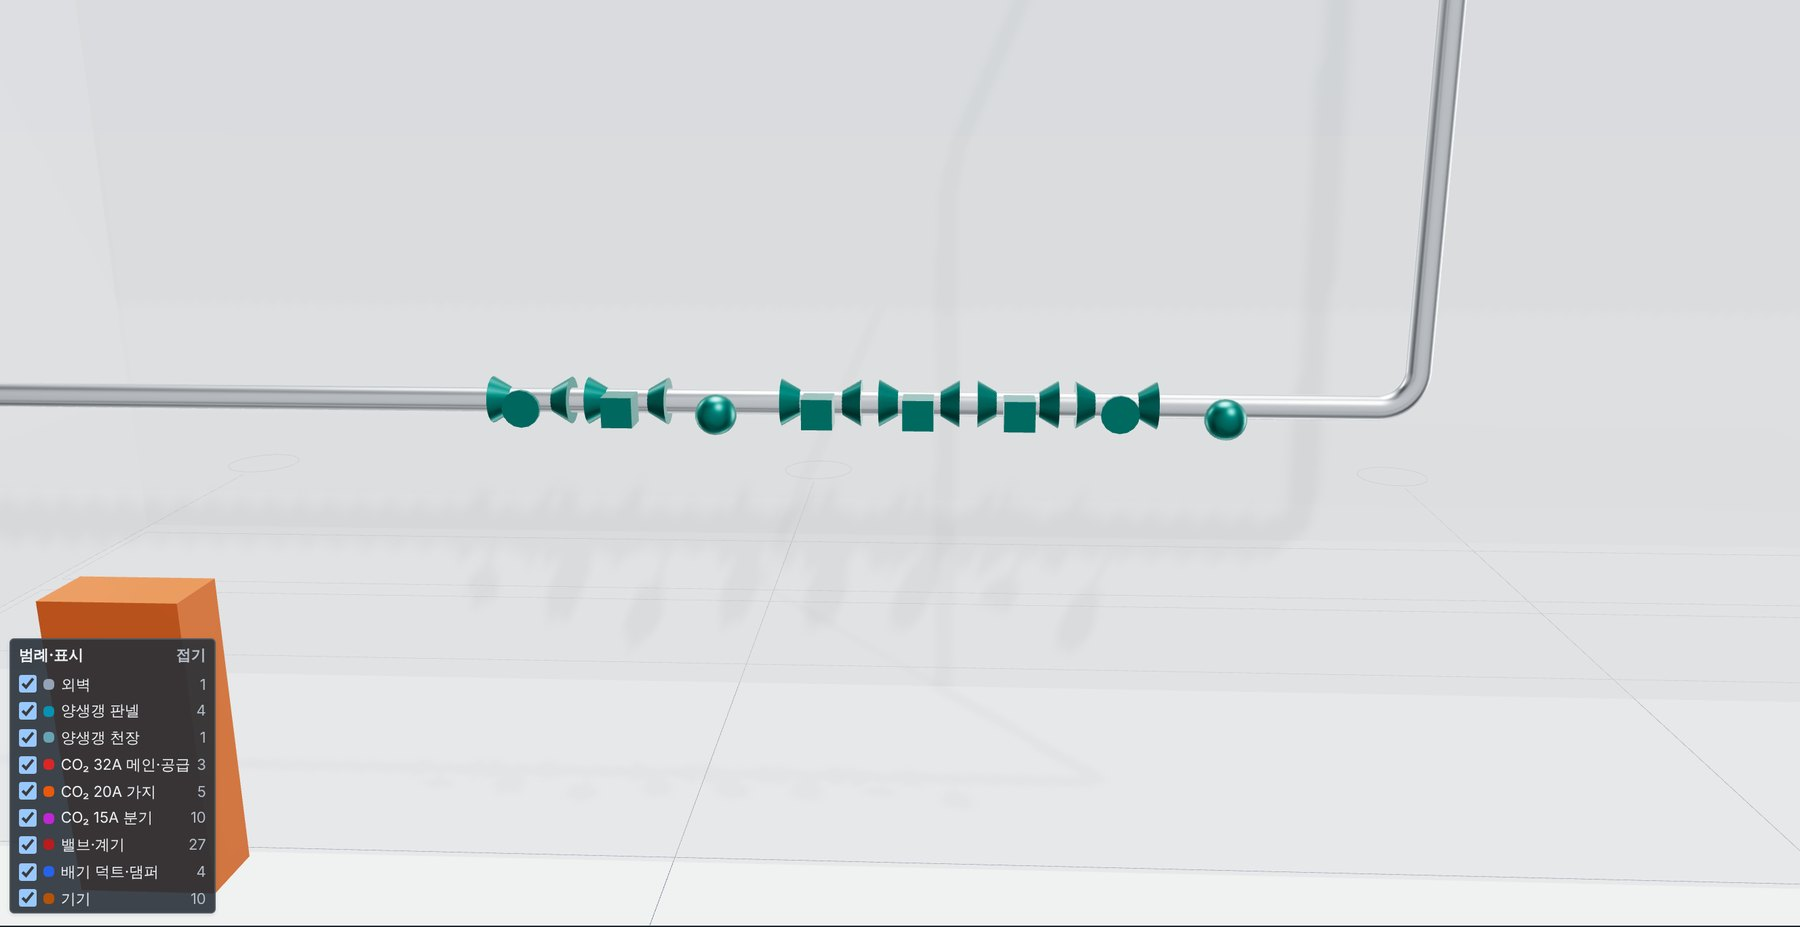
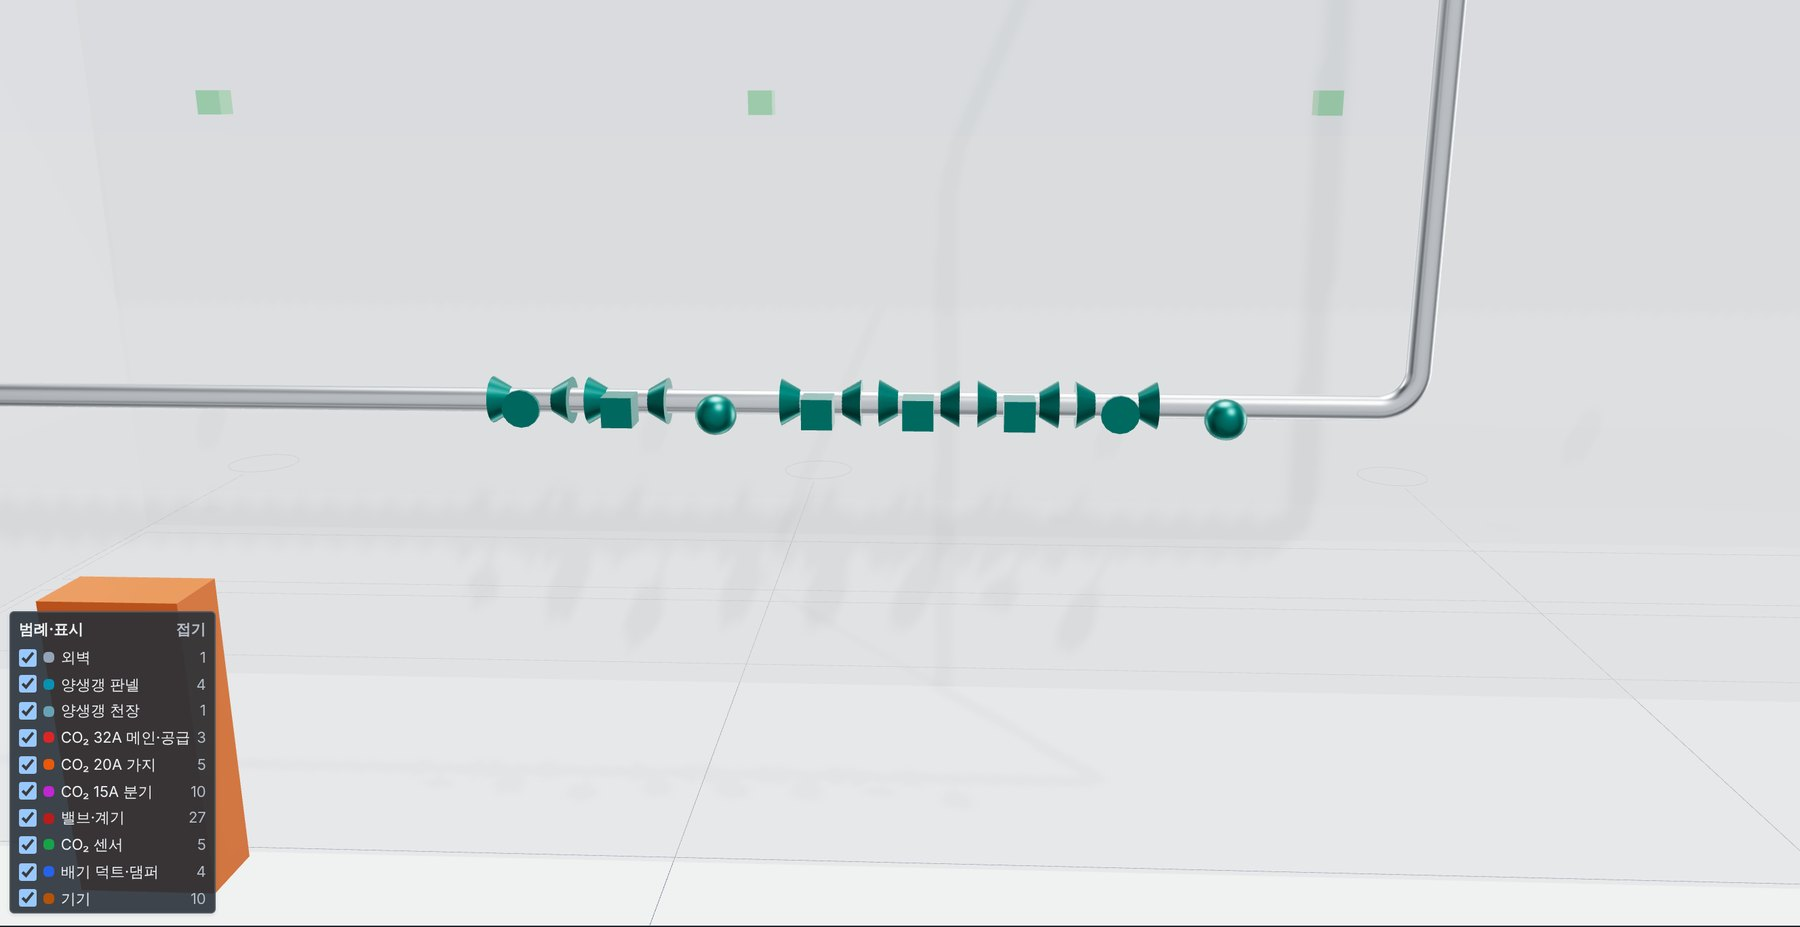
데코페이브 3판 도면 그림·3D 화면에 CO₂ 센서 5개 넣음
Claude-Session: https://claude.ai/code/session_01MdRgMhkkCG9jx7tPyuMZFB

diff --git a/public/client-assets/decopave/3d.html b/public/client-assets/decopave/3d.html
@@ -52,12 +52,13 @@ button:focus-visible{outline:2px solid #2c5ce6;outline-offset:2px}
         <span><i style="background:#ea580c"></i>구간 가지관</span>
         <span><i style="background:#c026d3"></i>토출 분기관</span>
         <span><i style="background:#0f766e"></i>밸브·계기</span>
+        <span><i style="background:#16a34a"></i>CO₂ 센서 5개</span>
         <span><i style="background:#2563eb"></i>퍼지 배기 덕트</span>
         <span><i style="background:#b45309"></i>제어반·기기</span>
         <span><i style="background:#67a3b5"></i>양생갱 (별도 공사)</span>
         <span><i style="background:#c4ccd4"></i>외벽</span>
       </div>
-      <p class="note">배관은 보기 쉽게 실제보다 굵게 그림. CO₂ 저장탱크·기화기는 가스 공급사 범위이며 위치와 크기는 가정임. 배관 루트는 착수 전 실측으로 확정함.</p>
+      <p class="note">배관은 보기 쉽게 실제보다 굵게 그림. CO₂ 센서는 구간마다 중간 높이에 1개씩 5개이며 위치는 실측 때 확정함. CO₂ 저장탱크·기화기는 가스 공급사 범위이며 위치와 크기는 가정임. 배관 루트는 착수 전 실측으로 확정함.</p>
     </div>
   </section>
   <div class="hint" id="hint">끌어서 돌리기 · 휠로 확대 · 오른쪽 버튼(두 손가락)으로 이동</div>
@@ -67,6 +68,7 @@ button:focus-visible{outline:2px solid #2c5ce6;outline-offset:2px}
       <button data-v="valve">밸브 계통</button>
       <button data-v="roof">지붕 위 메인</button>
       <button data-v="zone">구간 분기</button>
+      <button data-v="sensor">CO₂ 센서</button>
       <button data-v="purge">퍼지 배기</button>
       <button data-v="top">위에서</button>
     </div>
@@ -81,7 +83,7 @@ button:focus-visible{outline:2px solid #2c5ce6;outline-offset:2px}
 <script>
 (function(){
 'use strict';
-var D={"pipes":[{"s":"32A","p":[[-10.35,3.0,0.6],[10.9,3.0,0.6],[10.9,9.46,0.6],[10.9,9.46,-4.435]]},{"s":"32A","p":[[2.342,9.46,-4.435],[7.026,9.46,-4.435],[10.9,9.46,-4.435],[11.71,9.46,-4.435],[16.394,9.46,-4.435],[21.078,9.46,-4.435]]},{"s":"20A","p":[[2.342,9.46,-4.435],[2.342,9.16,-4.435]]},{"s":"15A","p":[[2.342,9.16,-4.435],[2.342,9.16,-3.835],[2.342,8.76,-3.835]]},{"s":"15A","p":[[2.342,9.16,-4.435],[2.342,9.16,-5.035],[2.342,8.76,-5.035]]},{"s":"20A","p":[[7.026,9.46,-4.435],[7.026,9.16,-4.435]]},{"s":"15A","p":[[7.026,9.16,-4.435],[7.026,9.16,-3.835],[7.026,8.76,-3.835]]},{"s":"15A","p":[[7.026,9.16,-4.435],[7.026,9.16,-5.035],[7.026,8.76,-5.035]]},{"s":"20A","p":[[11.71,9.46,-4.435],[11.71,9.16,-4.435]]},{"s":"15A","p":[[11.71,9.16,-4.435],[11.71,9.16,-3.835],[11.71,8.76,-3.835]]},{"s":"15A","p":[[11.71,9.16,-4.435],[11.71,9.16,-5.035],[11.71,8.76,-5.035]]},{"s":"20A","p":[[16.394,9.46,-4.435],[16.394,9.16,-4.435]]},{"s":"15A","p":[[16.394,9.16,-4.435],[16.394,9.16,-3.835],[16.394,8.76,-3.835]]},{"s":"15A","p":[[16.394,9.16,-4.435],[16.394,9.16,-5.035],[16.394,8.76,-5.035]]},{"s":"20A","p":[[21.078,9.46,-4.435],[21.078,9.16,-4.435]]},{"s":"15A","p":[[21.078,9.16,-4.435],[21.078,9.16,-3.835],[21.078,8.76,-3.835]]},{"s":"15A","p":[[21.078,9.16,-4.435],[21.078,9.16,-5.035],[21.078,8.76,-5.035]]}],"fits":[{"k":"ball-valve","p":[6.399,3.0,0.6],"t":"BV-01 수동 차단밸브"},{"k":"solenoid","p":[7.899,3.0,0.6],"t":"MV-01 메인 차단 전자밸브"},{"k":"유량계","p":[8.4,3.0,0.6],"t":"FT-01 유량계"},{"k":"regulator","p":[6.9,3.0,0.6],"t":"PRV-01 정압기"},{"k":"safety-valve","p":[8.901,3.0,0.6],"t":"SV-01 안전밸브"},{"k":"gauge","p":[7.401,3.0,0.6],"t":"PG-01·PT-01 압력계"},{"k":"ball-valve","p":[9.399,3.0,0.6],"t":"BV-02 차단밸브"},{"k":"union","p":[2.342,9.37,-4.435],"t":""},{"k":"solenoid","p":[2.342,9.27,-4.435],"t":"SOV-1 구간 전자밸브"},{"k":"nozzle","p":[2.342,8.76,-3.835],"t":""},{"k":"nozzle","p":[2.342,8.76,-5.035],"t":""},{"k":"union","p":[7.026,9.37,-4.435],"t":""},{"k":"solenoid","p":[7.026,9.27,-4.435],"t":"SOV-2 구간 전자밸브"},{"k":"nozzle","p":[7.026,8.76,-3.835],"t":""},{"k":"nozzle","p":[7.026,8.76,-5.035],"t":""},{"k":"union","p":[11.71,9.37,-4.435],"t":""},{"k":"solenoid","p":[11.71,9.27,-4.435],"t":"SOV-3 구간 전자밸브"},{"k":"nozzle","p":[11.71,8.76,-3.835],"t":""},{"k":"nozzle","p":[11.71,8.76,-5.035],"t":""},{"k":"union","p":[16.394,9.37,-4.435],"t":""},{"k":"solenoid","p":[16.394,9.27,-4.435],"t":"SOV-4 구간 전자밸브"},{"k":"nozzle","p":[16.394,8.76,-3.835],"t":""},{"k":"nozzle","p":[16.394,8.76,-5.035],"t":""},{"k":"union","p":[21.078,9.37,-4.435],"t":""},{"k":"solenoid","p":[21.078,9.27,-4.435],"t":"SOV-5 구간 전자밸브"},{"k":"nozzle","p":[21.078,8.76,-3.835],"t":""},{"k":"nozzle","p":[21.078,8.76,-5.035],"t":""},{"k":"gauge","p":[9.9,3.0,0.6],"t":"PG-02 압력계"}],"boxes":[{"tag":"","layer":"ROOF","min":[-0.1,8.86,-6.335],"max":[23.52,8.96,-2.535]},{"tag":"CP-01 제어반","layer":"EQUIP","min":[3.9,0.0,-0.1],"max":[4.7,1.8,0.3]},{"tag":"MD-02 배기 댐퍼 Ø350 (밀폐형 전동)","layer":"DUCT","min":[22.575,0.175,-2.2],"max":[23.025,0.625,-1.9]},{"tag":"EF-01 인라인 배기팬 Ø350 · 2,500㎥/h","layer":"DUCT","min":[22.525,1.5,-1.575],"max":[23.075,2.2,-1.025]},{"tag":"배기 후드 (방충망·빗물막이)","layer":"DUCT","min":[22.55,6.7,0.45],"max":[23.05,7.2,0.9]},{"tag":"기화기·감압 (공급사)","layer":"EQUIP","min":[-11.15,0.0,0.15],"max":[-10.35,3.2,0.65]}],"rounds":[{"layer":"DUCT","id":"m99","r":0.175,"p":[[22.8,0.4,-2.585],[22.8,0.4,-1.3],[22.8,7.0,-1.3],[22.8,7.0,0.45]]},{"layer":"EQUIP","id":"tk1","r":1.1,"p":[[-12.6,0.6,1.7],[-12.6,4.6,1.7]]},{"layer":"EQUIP","id":"tk2","r":0.75,"p":[[-12.6,4.6,1.7],[-12.6,4.9,1.7]]},{"layer":"EQUIP","id":"tk3","r":0.75,"p":[[-12.6,0.3,1.7],[-12.6,0.6,1.7]]},{"layer":"EQUIP","id":"tk4","r":0.075,"p":[[-13.3,0.0,2.4],[-13.3,0.9,2.4]]},{"layer":"EQUIP","id":"tk5","r":0.075,"p":[[-11.9,0.0,2.4],[-11.9,0.9,2.4]]},{"layer":"EQUIP","id":"tk6","r":0.075,"p":[[-13.3,0.0,1.0],[-13.3,0.9,1.0]]},{"layer":"EQUIP","id":"tk7","r":0.075,"p":[[-11.9,0.0,1.0],[-11.9,0.9,1.0]]},{"layer":"EQUIP","id":"tk10","r":0.03,"p":[[-12.6,0.9,1.7],[-12.6,0.9,0.4],[-11.15,0.9,0.4]]}],"walls":[{"k":"out","a":[-11.8,0.0,0.0],"b":[26.4,0.0,0.0],"h":10.5},{"k":"ch","a":[-0.05,0.0,-2.585],"b":[23.47,0.0,-2.585],"h":8.86},{"k":"ch","a":[23.47,0.0,-2.585],"b":[23.47,0.0,-6.285],"h":8.86},{"k":"ch","a":[23.47,0.0,-6.285],"b":[-0.05,0.0,-6.285],"h":8.86},{"k":"ch","a":[-0.05,0.0,-6.285],"b":[-0.05,0.0,-2.585],"h":8.86}],"racks":[[0.094,-4.29,23.321,-2.89],[0.094,-5.98,23.321,-4.58]]};
+var D={"pipes":[{"s":"32A","p":[[-10.35,3.0,0.6],[10.9,3.0,0.6],[10.9,9.46,0.6],[10.9,9.46,-4.435]]},{"s":"32A","p":[[2.342,9.46,-4.435],[7.026,9.46,-4.435],[10.9,9.46,-4.435],[11.71,9.46,-4.435],[16.394,9.46,-4.435],[21.078,9.46,-4.435]]},{"s":"20A","p":[[2.342,9.46,-4.435],[2.342,9.16,-4.435]]},{"s":"15A","p":[[2.342,9.16,-4.435],[2.342,9.16,-3.835],[2.342,8.76,-3.835]]},{"s":"15A","p":[[2.342,9.16,-4.435],[2.342,9.16,-5.035],[2.342,8.76,-5.035]]},{"s":"20A","p":[[7.026,9.46,-4.435],[7.026,9.16,-4.435]]},{"s":"15A","p":[[7.026,9.16,-4.435],[7.026,9.16,-3.835],[7.026,8.76,-3.835]]},{"s":"15A","p":[[7.026,9.16,-4.435],[7.026,9.16,-5.035],[7.026,8.76,-5.035]]},{"s":"20A","p":[[11.71,9.46,-4.435],[11.71,9.16,-4.435]]},{"s":"15A","p":[[11.71,9.16,-4.435],[11.71,9.16,-3.835],[11.71,8.76,-3.835]]},{"s":"15A","p":[[11.71,9.16,-4.435],[11.71,9.16,-5.035],[11.71,8.76,-5.035]]},{"s":"20A","p":[[16.394,9.46,-4.435],[16.394,9.16,-4.435]]},{"s":"15A","p":[[16.394,9.16,-4.435],[16.394,9.16,-3.835],[16.394,8.76,-3.835]]},{"s":"15A","p":[[16.394,9.16,-4.435],[16.394,9.16,-5.035],[16.394,8.76,-5.035]]},{"s":"20A","p":[[21.078,9.46,-4.435],[21.078,9.16,-4.435]]},{"s":"15A","p":[[21.078,9.16,-4.435],[21.078,9.16,-3.835],[21.078,8.76,-3.835]]},{"s":"15A","p":[[21.078,9.16,-4.435],[21.078,9.16,-5.035],[21.078,8.76,-5.035]]}],"fits":[{"k":"ball-valve","p":[6.399,3.0,0.6],"t":"BV-01 수동 차단밸브"},{"k":"solenoid","p":[7.899,3.0,0.6],"t":"MV-01 메인 차단 전자밸브"},{"k":"유량계","p":[8.4,3.0,0.6],"t":"FT-01 유량계"},{"k":"regulator","p":[6.9,3.0,0.6],"t":"PRV-01 정압기"},{"k":"safety-valve","p":[8.901,3.0,0.6],"t":"SV-01 안전밸브"},{"k":"gauge","p":[7.401,3.0,0.6],"t":"PG-01·PT-01 압력계"},{"k":"ball-valve","p":[9.399,3.0,0.6],"t":"BV-02 차단밸브"},{"k":"union","p":[2.342,9.37,-4.435],"t":""},{"k":"solenoid","p":[2.342,9.27,-4.435],"t":"SOV-1 구간 전자밸브"},{"k":"nozzle","p":[2.342,8.76,-3.835],"t":""},{"k":"nozzle","p":[2.342,8.76,-5.035],"t":""},{"k":"union","p":[7.026,9.37,-4.435],"t":""},{"k":"solenoid","p":[7.026,9.27,-4.435],"t":"SOV-2 구간 전자밸브"},{"k":"nozzle","p":[7.026,8.76,-3.835],"t":""},{"k":"nozzle","p":[7.026,8.76,-5.035],"t":""},{"k":"union","p":[11.71,9.37,-4.435],"t":""},{"k":"solenoid","p":[11.71,9.27,-4.435],"t":"SOV-3 구간 전자밸브"},{"k":"nozzle","p":[11.71,8.76,-3.835],"t":""},{"k":"nozzle","p":[11.71,8.76,-5.035],"t":""},{"k":"union","p":[16.394,9.37,-4.435],"t":""},{"k":"solenoid","p":[16.394,9.27,-4.435],"t":"SOV-4 구간 전자밸브"},{"k":"nozzle","p":[16.394,8.76,-3.835],"t":""},{"k":"nozzle","p":[16.394,8.76,-5.035],"t":""},{"k":"union","p":[21.078,9.37,-4.435],"t":""},{"k":"solenoid","p":[21.078,9.27,-4.435],"t":"SOV-5 구간 전자밸브"},{"k":"nozzle","p":[21.078,8.76,-3.835],"t":""},{"k":"nozzle","p":[21.078,8.76,-5.035],"t":""},{"k":"gauge","p":[9.9,3.0,0.6],"t":"PG-02 압력계"}],"boxes":[{"tag":"","layer":"ROOF","min":[-0.1,8.86,-6.335],"max":[23.52,8.96,-2.535]},{"tag":"CP-01 제어반","layer":"EQUIP","min":[3.9,0.0,-0.1],"max":[4.7,1.8,0.3]},{"tag":"MD-02 배기 댐퍼 Ø350 (밀폐형 전동)","layer":"DUCT","min":[22.575,0.175,-2.2],"max":[23.025,0.625,-1.9]},{"tag":"EF-01 인라인 배기팬 Ø350 · 2,500㎥/h","layer":"DUCT","min":[22.525,1.5,-1.575],"max":[23.075,2.2,-1.025]},{"tag":"배기 후드 (방충망·빗물막이)","layer":"DUCT","min":[22.55,6.7,0.45],"max":[23.05,7.2,0.9]},{"tag":"기화기·감압 (공급사)","layer":"EQUIP","min":[-11.15,0.0,0.15],"max":[-10.35,3.2,0.65]},{"tag":"CT-1 CO₂ 센서","layer":"SENSOR","min":[2.242,4.33,-4.535],"max":[2.442,4.53,-4.335]},{"tag":"CT-2 CO₂ 센서","layer":"SENSOR","min":[6.926,4.33,-4.535],"max":[7.126,4.53,-4.335]},{"tag":"CT-3 CO₂ 센서","layer":"SENSOR","min":[11.61,4.33,-4.535],"max":[11.81,4.53,-4.335]},{"tag":"CT-4 CO₂ 센서","layer":"SENSOR","min":[16.294,4.33,-4.535],"max":[16.494,4.53,-4.335]},{"tag":"CT-5 CO₂ 센서","layer":"SENSOR","min":[20.978,4.33,-4.535],"max":[21.178,4.53,-4.335]}],"rounds":[{"layer":"DUCT","id":"m99","r":0.175,"p":[[22.8,0.4,-2.585],[22.8,0.4,-1.3],[22.8,7.0,-1.3],[22.8,7.0,0.45]]},{"layer":"EQUIP","id":"tk1","r":1.1,"p":[[-12.6,0.6,1.7],[-12.6,4.6,1.7]]},{"layer":"EQUIP","id":"tk2","r":0.75,"p":[[-12.6,4.6,1.7],[-12.6,4.9,1.7]]},{"layer":"EQUIP","id":"tk3","r":0.75,"p":[[-12.6,0.3,1.7],[-12.6,0.6,1.7]]},{"layer":"EQUIP","id":"tk4","r":0.075,"p":[[-13.3,0.0,2.4],[-13.3,0.9,2.4]]},{"layer":"EQUIP","id":"tk5","r":0.075,"p":[[-11.9,0.0,2.4],[-11.9,0.9,2.4]]},{"layer":"EQUIP","id":"tk6","r":0.075,"p":[[-13.3,0.0,1.0],[-13.3,0.9,1.0]]},{"layer":"EQUIP","id":"tk7","r":0.075,"p":[[-11.9,0.0,1.0],[-11.9,0.9,1.0]]},{"layer":"EQUIP","id":"tk10","r":0.03,"p":[[-12.6,0.9,1.7],[-12.6,0.9,0.4],[-11.15,0.9,0.4]]}],"walls":[{"k":"out","a":[-11.8,0.0,0.0],"b":[26.4,0.0,0.0],"h":10.5},{"k":"ch","a":[-0.05,0.0,-2.585],"b":[23.47,0.0,-2.585],"h":8.86},{"k":"ch","a":[23.47,0.0,-2.585],"b":[23.47,0.0,-6.285],"h":8.86},{"k":"ch","a":[23.47,0.0,-6.285],"b":[-0.05,0.0,-6.285],"h":8.86},{"k":"ch","a":[-0.05,0.0,-6.285],"b":[-0.05,0.0,-2.585],"h":8.86}],"racks":[[0.094,-4.29,23.321,-2.89],[0.094,-5.98,23.321,-4.58]]};
 var canvas=document.getElementById('c'), hint=document.getElementById('hint'), labelBox=document.getElementById('labels');
 if(!window.THREE){ hint.textContent='3D 화면을 불러오지 못함. 새로 고침해 주십시오.'; hint.style.display='block'; return; }
 var renderer;
@@ -96,7 +98,7 @@ var sun2=new THREE.DirectionalLight(0xffffff,0.25); sun2.position.set(30,15,-20)
 
 function M(c){ return new THREE.MeshLambertMaterial({color:c}); }
 function T(c,o){ return new THREE.MeshLambertMaterial({color:c,transparent:true,opacity:o,side:THREE.DoubleSide,depthWrite:false}); }
-var mat={ p32:M(0xdc2626), p20:M(0xea580c), p15:M(0xc026d3), fit:M(0x0f766e), duct:M(0x2563eb), eq:M(0xb45309),
+var mat={ p32:M(0xdc2626), p20:M(0xea580c), p15:M(0xc026d3), fit:M(0x0f766e), duct:M(0x2563eb), eq:M(0xb45309), sen:M(0x16a34a),
   tank:T(0xb45309,0.55), out:T(0xc4ccd4,0.30), ch:T(0x67a3b5,0.22), roof:T(0x67a3b5,0.38), ground:M(0xdfe3e8) };
 var V=function(a){ return new THREE.Vector3(a[0],a[1],a[2]); };
 function cyl(a,b,r,m,parent,seg){
@@ -132,6 +134,7 @@ D.walls.forEach(function(w){
 });
 D.boxes.forEach(function(b){
   if(b.layer==='ROOF'){ boxMM(b.min,b.max,mat.roof,gCh); return; }
+  if(b.layer==='SENSOR'){ var c=[(b.min[0]+b.max[0])/2,(b.min[1]+b.max[1])/2,(b.min[2]+b.max[2])/2]; ball(c,0.17,mat.sen,gMain); addLabel(b.tag,c,0.25); return; }
   boxMM(b.min,b.max,b.layer==='DUCT'?mat.duct:mat.eq,gMain);
   var t=b.tag.replace(/ Ø350.*$/,'').replace(/ \(.*$/,'');
   addLabel(t,[(b.min[0]+b.max[0])/2,b.max[1],(b.min[2]+b.max[2])/2],0.15);
@@ -175,6 +178,7 @@ var VIEWS={
   valve:{t:[8.2,3.3,0.6],r:7.5,th:0.05,ph:1.36},
   roof:{t:[11.7,9.2,-4.4],r:22,th:-0.75,ph:0.95},
   zone:{t:[7.03,9.2,-4.43],r:4.2,th:-0.7,ph:1.0},
+  sensor:{t:[11.7,4.6,-4.4],r:34,th:2.55,ph:1.12},
   purge:{t:[22.8,3.5,-1.2],r:13,th:0.95,ph:1.2},
   top:{t:[7,0,-2.5],r:60,th:0,ph:0.02}
 };
